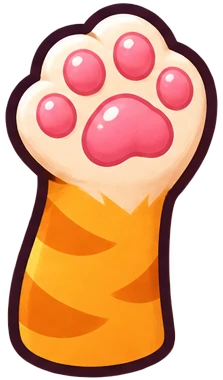
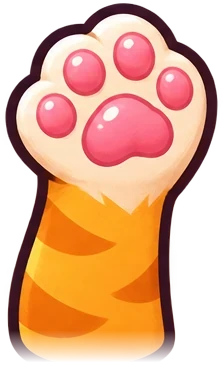
Ginger menu paw: no outline at its base, sits lower on the shoulder, chest stump retouched into fur
Claude-Session: https://claude.ai/code/session_0183AWkuzyGnGmi9RjTHJkGU

Changed region(s): [[0.0269, 0.8684, 0.8072, 1.0]]

diff --git a/src/game/TitleScene.ts b/src/game/TitleScene.ts
@@ -74,12 +74,12 @@ export class TitleScene extends Phaser.Scene {
 
     // ginger on her back: the raised paw bats the yarn ball
     const [gx, gy, gw] = P.rug;
-    const paw = this.piece('menu_ginger_paw', 0, 0, gw * 0.3, 0.5, 0.93);
+    const paw = this.piece('menu_ginger_paw', 0, 0, gw * 0.32, 0.5, 0.93);
     const ginger = this.piece('menu_ginger_play', gx, gy, gw, 0.5, 0.5, true);
     if (ginger && paw) {
-      // the paw starts at the shoulder under the chin (sprite point 0.5, 0.47), drawn in front of the chest stump
-      const sx = gx + (0.5 - 0.5) * ginger.displayWidth;
-      const sy = gy + (0.47 - 0.5) * ginger.displayHeight;
+      // the paw sits on the shoulder (sprite point 0.472, 0.525) over the retouched chest stump; its base has no outline
+      const sx = gx + (0.472 - 0.5) * ginger.displayWidth;
+      const sy = gy + (0.525 - 0.5) * ginger.displayHeight;
       paw.setPosition(sx, sy).setAngle(-25).setDepth(ginger.depth + 1);
       const yarn = this.piece('menu_yarn', sx - gw * 0.2, sy - gw * 0.42, gw * 0.3, 0.5, 0.5);
       const fish = this.piece('menu_fish', gx + gw * 0.55, gy + gw * 0.12, gw * 0.3, 0.5, 0.5);

diff --git a/tools/art/art4.py b/tools/art/art4.py
@@ -142,3 +142,34 @@ for im, n in zip(pieces(Image.open(SRC / 'menu' / 'menu_playing_cat.png').conver
     save(im, 'menu', f'menu_{n}', 512)
 
 MF.write_text(json.dumps(manifest, indent=1, ensure_ascii=False))
+
+# ginger's playing paw (menu): no outline across the bottom end, it fades into the shoulder (2026-11-24)
+pw = Image.open(DST / 'menu' / 'menu_ginger_paw.webp').convert('RGBA')
+pa = np.array(pw).astype(np.float32)
+h = pa.shape[0]
+y0, y1 = int(h * 0.87), int(h * 0.955)
+fade = np.clip((y1 - np.arange(h)) / (y1 - y0), 0, 1)
+pa[:, :, 3] *= fade[:, None]
+Image.fromarray(pa.clip(0, 255).astype(np.uint8)).save(DST / 'menu' / 'menu_ginger_paw.webp', 'WEBP', quality=90, method=6)
+
+# ginger's chest stump (where the separate paw attaches) retouched into orange fur, silhouette outline restored
+import cv2
+gp = DST / 'menu' / 'menu_ginger_play.webp'
+g = np.array(Image.open(gp).convert('RGBA'))
+gh, gw_ = g.shape[:2]
+yy, xx = np.mgrid[0:gh, 0:gw_]
+cx, cy = 232 * gw_ / 512, 184 * gh / 365
+ell = ((xx - cx) / (27 * gw_ / 512)) ** 2 + ((yy - cy) / (23 * gh / 365)) ** 2 <= 1
+mask = (ell & (g[:, :, 3] > 200)).astype(np.uint8) * 255
+mask = cv2.dilate(mask, np.ones((5, 5), np.uint8))
+mask[g[:, :, 3] < 200] = 0
+src = g[:, :, :3].copy()
+band = cv2.dilate(mask, np.ones((25, 25), np.uint8)) > 0
+src[(src.mean(axis=2) < 110) & band] = (245, 150, 32)
+fill = cv2.cvtColor(cv2.inpaint(cv2.cvtColor(src, cv2.COLOR_RGB2BGR), mask, 9, cv2.INPAINT_TELEA), cv2.COLOR_BGR2RGB)
+fill = cv2.GaussianBlur(fill, (7, 7), 0)
+g[mask > 0, :3] = fill[mask > 0]
+ell2 = ((xx - cx) / (32 * gw_ / 512)) ** 2 + ((yy - cy) / (28 * gh / 365)) ** 2 <= 1
+near = cv2.dilate((g[:, :, 3] < 60).astype(np.uint8), np.ones((9, 9), np.uint8)) > 0
+g[ell2 & near & (g[:, :, 3] > 60) & (g[:, :, :3].mean(axis=2) > 110), :3] = (52, 16, 24)
+Image.fromarray(g).save(gp, 'WEBP', quality=90, method=6)
